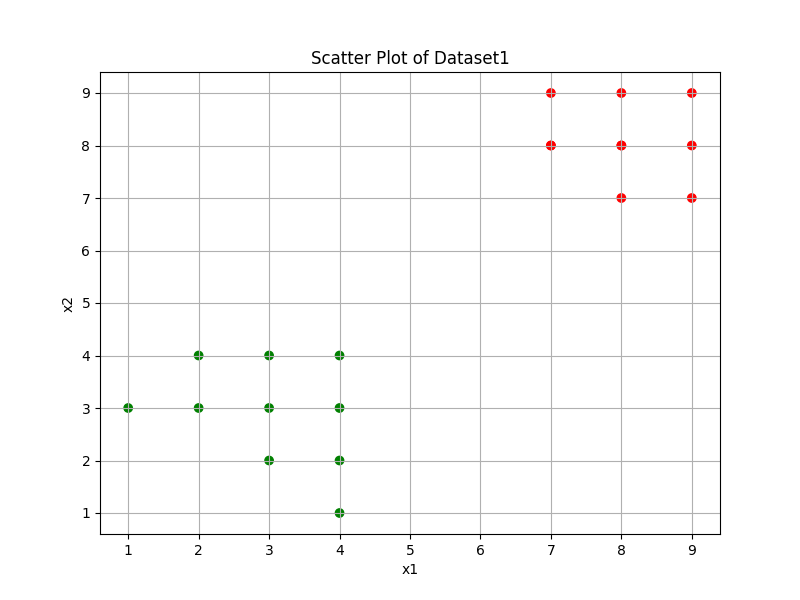
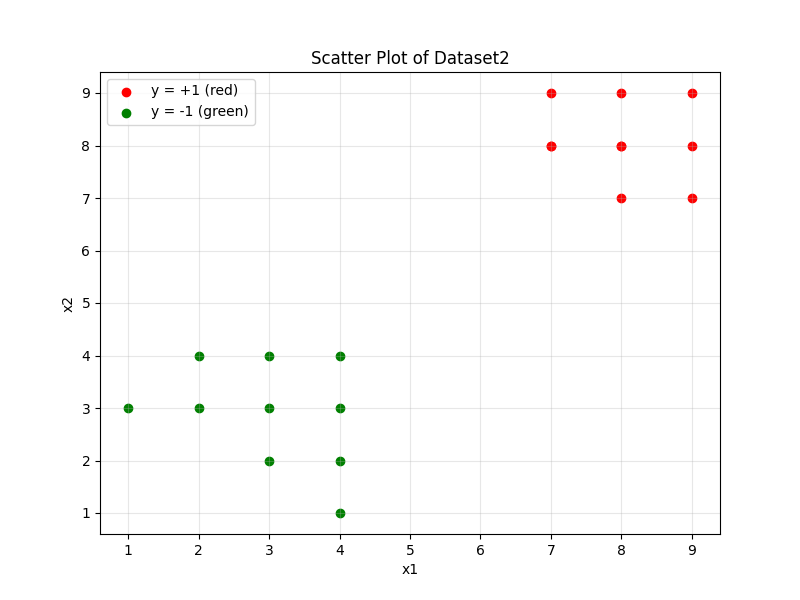
Add new files

diff --git a/hw1.py b/hw1.py
@@ -2,15 +2,219 @@ import numpy as np
 from pathlib import Path
 import matplotlib.pyplot as plt
 
-path = Path("/Users/jack/Downloads/HW1/Bridge_Condition.txt")
-data = np.loadtxt(path) #delimiter & skiprows
-#print(data) 
-dataset1 = data[0:20,:]
-dataset2 = data[:,:]
 
-# Q1: Scatter plot of dataset1
-y1 = dataset1[:,2]
-color = np.where(y1==1, 'red', 'green')
-plt.figure(figsize=(8,6))
-plt.scatter(dataset1[:,0], dataset1[:,1], c=color)
-plt.xlabel('x1');plt.ylabel('x2');plt.title('Scatter Plot of Dataset1');plt.grid();plt.show()
+def pla(x, y, max_iter=1000):
+    N = x.shape[0]
+    xb = np.c_[np.ones(N), x]
+    w = np.zeros(xb.shape[1])
+    Ein = []
+    updates = 0
+
+    for j in range(max_iter):
+        changed = False
+        for i in range(N):
+            if y[i] * (w @ xb[i]) <= 0:
+                w += y[i] * xb[i]
+                updates += 1
+                changed = True
+
+        y_hat = np.where((xb @ w) > 0, 1, -1)
+        Ein.append(np.mean(y_hat != y))
+
+        if not changed:
+            print(f'Converged after {updates} updates.')
+            break
+
+    return w, updates, np.array(Ein)
+
+
+def plot_scatter_with_boundary(x, y, w):
+    fig, ax = plt.subplots(figsize=(8, 6))
+    ax.scatter(x[y==1, 0], x[y==1, 1], c="red", marker="o", label="y=+1")
+    ax.scatter(x[y==-1, 0], x[y==-1, 1], c="green", marker="x", label="y=-1")
+
+    w0, w1, w2 = w
+    xs = np.linspace(x[:,0].min(), x[:,0].max(), 200)
+    if abs(w2) > 1e-12:
+        ax.plot(xs, -(w0 + w1*xs)/w2, linewidth=2, label="boundary")
+    elif abs(w1) > 1e-12:
+        ax.axvline(-w0/w1, linewidth=2, label="boundary")
+
+    ax.set_xlabel("x1")
+    ax.set_ylabel("x2")
+    ax.grid(alpha=0.3)
+    ax.legend()
+    plt.show()
+
+def shuffle_experiment(x, y, n_runs=10, seed=0, max_iter=1000):
+    rng = np.random.default_rng(seed)
+    updates_list = []
+
+    for r in range(n_runs):
+        idx = rng.permutation(len(y)) #learned from AI that how to shuffle randomly and repeatably
+        _, updates, _ = pla(x[idx], y[idx], max_iter=max_iter)
+        updates_list.append(updates)
+        
+
+    return updates_list
+
+def pla_T_updates(x, y, T=1000):
+    N = x.shape[0]
+    xb = np.c_[np.ones(N), x]
+    w = np.zeros(xb.shape[1])
+
+    Ein = []
+    updates = 0
+
+    while updates < T:
+        changed = False
+        for i in range(N):
+            if y[i] * (w @ xb[i]) <= 0:
+                w += y[i] * xb[i]
+                updates += 1
+                changed = True
+
+                y_hat = np.where((xb @ w) > 0, 1, -1)
+                Ein.append(np.mean(y_hat != y))
+
+                if updates >= T:
+                    break
+
+        if not changed:
+            print(f'Converged after {updates} updates.')
+            break
+
+    return w, updates, np.array(Ein)
+
+def pocket_pla_T_updates(x, y, T=1000):
+    N = x.shape[0]
+    xb = np.c_[np.ones(N), x]
+    w = np.zeros(xb.shape[1])
+
+    Ein = []
+    updates = 0
+    w_best = w.copy()
+    y_hat = np.where((xb @ w_best) > 0, 1, -1)
+    
+    min_Ein = np.mean(y_hat != y)
+
+    while updates < T:
+        changed = False
+        for i in range(N):
+            if y[i] * (w @ xb[i]) <= 0:
+                w += y[i] * xb[i]
+                updates += 1
+                changed = True
+
+                y_hat = np.where((xb @ w) > 0, 1, -1)
+                Ein_count = np.mean(y_hat != y)
+                Ein.append(Ein_count)
+                if Ein_count < min_Ein:
+                    min_Ein = Ein_count
+                    w_best = w.copy()
+
+                if updates >= T:
+                    break
+
+        if not changed:
+            print(f'Converged after {updates} updates.')
+            break
+
+    return w, updates, np.array(Ein), w_best, min_Ein
+
+def plot_two_boundaries(x, y, wT, wbest):
+    fig, ax = plt.subplots(figsize=(8, 6))
+    ax.scatter(x[y==1, 0], x[y==1, 1], c="red", label="y=+1")
+    ax.scatter(x[y==-1, 0], x[y==-1, 1], c="green", label="y=-1")
+
+    xs = np.linspace(x[:,0].min(), x[:,0].max(), 200)
+
+    def draw(w, label):
+        w0, w1, w2 = w
+        if abs(w2) > 1e-12:
+            ax.plot(xs, -(w0 + w1*xs)/w2, linewidth=2, label=label)
+        elif abs(w1) > 1e-12:
+            ax.axvline(-w0/w1, linewidth=2, label=label)
+
+    draw(wT, "w(T)")
+    draw(wbest, "wbest")
+
+    ax.set_xlabel("x1");ax.set_ylabel("x2");ax.grid(alpha=0.3);ax.legend();plt.show()
+
+
+def main():
+    path = Path("/Users/jack/Desktop/CEE554/HW1/Bridge_Condition.txt")
+    data = np.loadtxt(path) #delimiter & skiprows
+    #print(data) 
+    dataset1 = data[0:20,:]
+    dataset2 = data[:,:]
+    # Q1: Scatter plot of dataset1
+    x1 = dataset1[:,0:2]
+    y1 = dataset1[:,2]
+
+    plt.figure(figsize=(8,6))
+    plt.scatter(x1[y1==1, 0],  x1[y1==1, 1],  c='red', label='y = +1 (red)') # learned form AI that how to plot without loop
+    plt.scatter(x1[y1==-1, 0], x1[y1==-1, 1], c='green', label='y = -1 (green)')
+    plt.xlabel('x1');plt.ylabel('x2');plt.title('Scatter Plot of Dataset2');plt.grid(alpha=0.3);plt.legend();plt.show()
+
+    # Q1b
+    # (b) Run PLA on Dataset 1 (no shuffle, file order)
+    w_b, updates_b, Ein_b = pla(x1, y1)
+
+    print(f"(b-i) updates until convergence = {updates_b}")
+
+    # b-ii
+    plot_scatter_with_boundary(x1, y1, w_b)
+
+    # b-iii
+    plt.figure(figsize=(8,4))
+    plt.plot(np.arange(1, len(Ein_b) + 1), Ein_b, linewidth=2)
+    plt.xlabel("Iteration (pass/epoch)")
+    plt.ylabel("Ein")
+    plt.grid(alpha=0.3)
+    plt.show()
+    #Q1c
+    updates_list = shuffle_experiment(x1, y1, n_runs=10, seed=0, max_iter=1000)
+
+    print("\nUpdates to convergence for each shuffle:")
+    print(updates_list)
+
+    # Q1d
+    x = dataset2[:,0:2]
+    y = dataset2[:,2]
+
+    plt.figure(figsize=(8,6))
+    plt.scatter(x[y==1, 0],  x[y==1, 1],  c='red', label='y = +1 (red)') # learned form AI that how to plot without loop
+    plt.scatter(x[y==-1, 0], x[y==-1, 1], c='green', label='y = -1 (green)')
+    plt.xlabel('x1');plt.ylabel('x2');plt.title('Scatter Plot of Dataset2');plt.grid(alpha=0.3);plt.legend();plt.show()
+
+    #1e
+    rng = np.random.default_rng(0)
+    idx = rng.permutation(len(y))
+    xs, ys = x[idx], y[idx]
+    w, updates, Ein_e = pla_T_updates(xs, ys, T=1000)
+    iters = np.arange(1, len(Ein_e) + 1)
+    plt.figure(figsize=(8,4))
+    plt.plot(iters, Ein_e, linewidth=2)
+    plt.xlabel("Iteration (update number)")
+    plt.ylabel("Misclassification rate")
+    plt.grid(alpha=0.3)
+    plt.show()
+
+
+    wT, updates, Ein, wbest, min_Ein = pocket_pla_T_updates(xs, ys, T=1000)
+
+    print("Best (lowest) misclassification rate =", min_Ein)
+    print("wbest =", wbest)
+    print("w(T) =", wT)
+    plot_two_boundaries(xs, ys, wT, wbest)
+
+
+
+
+
+
+if __name__ == "__main__":
+    main()
+
+    
